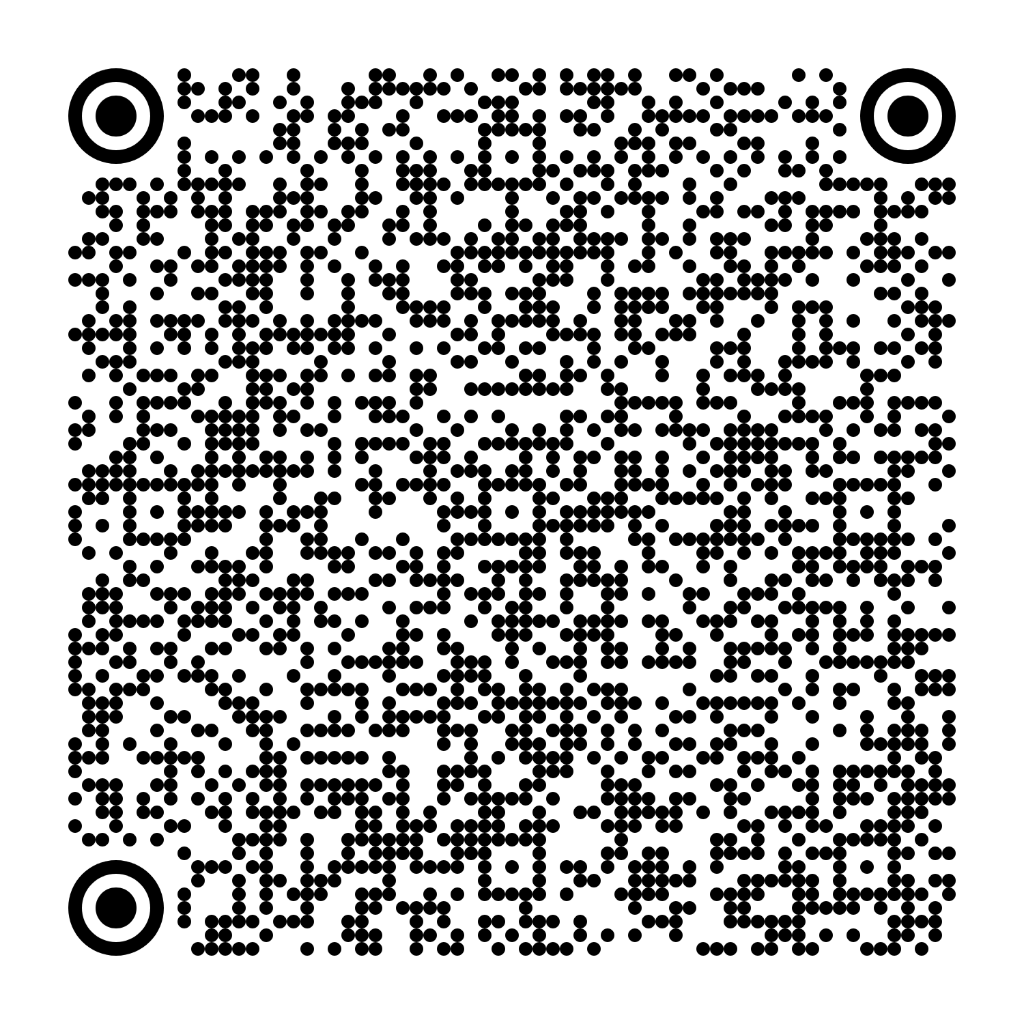
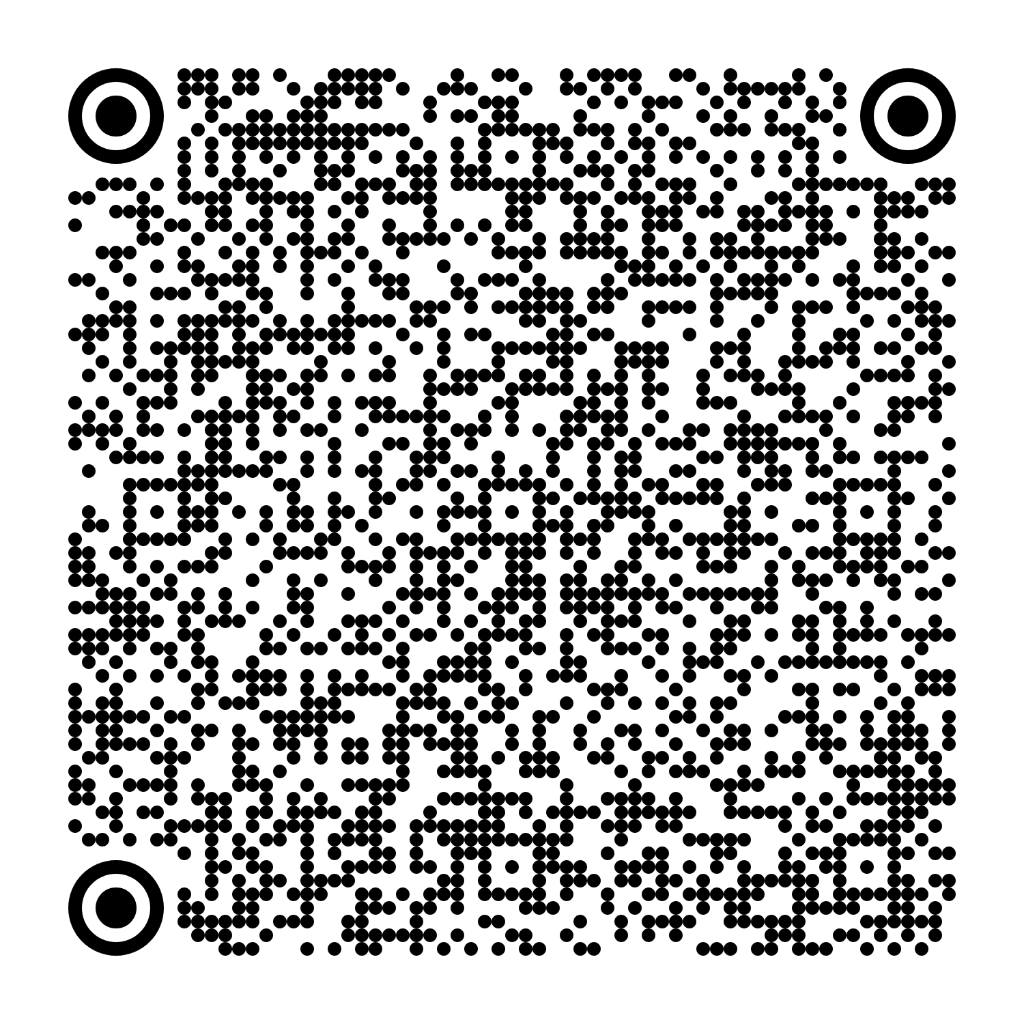
chore: attempt #22

diff --git a/README.md b/README.md
@@ -63,7 +63,7 @@ This repository hosts a [F-Droid](https://f-droid.org/) repo for curated Android
 3. **Scan QR Code** - Use the QR code above or manually add the repository URL:
 
    ```txt
-   https://raw.githubusercontent.com/Xpos587/fdroid/main/fdroid/repo?fingerprint=93D7D47A5E0E66C17C24710DC563FA2E54DAA7883384199B1845FB2D6E0EEBADD
+   https://raw.githubusercontent.com/Xpos587/fdroid/main/fdroid/repo?fingerprint=94FA53EC8CA69F08E6D4EF89E99E7CF1C0EB356DDAFD9F37B302C4087446F922
    ```
 
 4. **Install Apps** - Search for "WG Tunnel", "v2rayNG" or other apps in the Droid-ify client.
